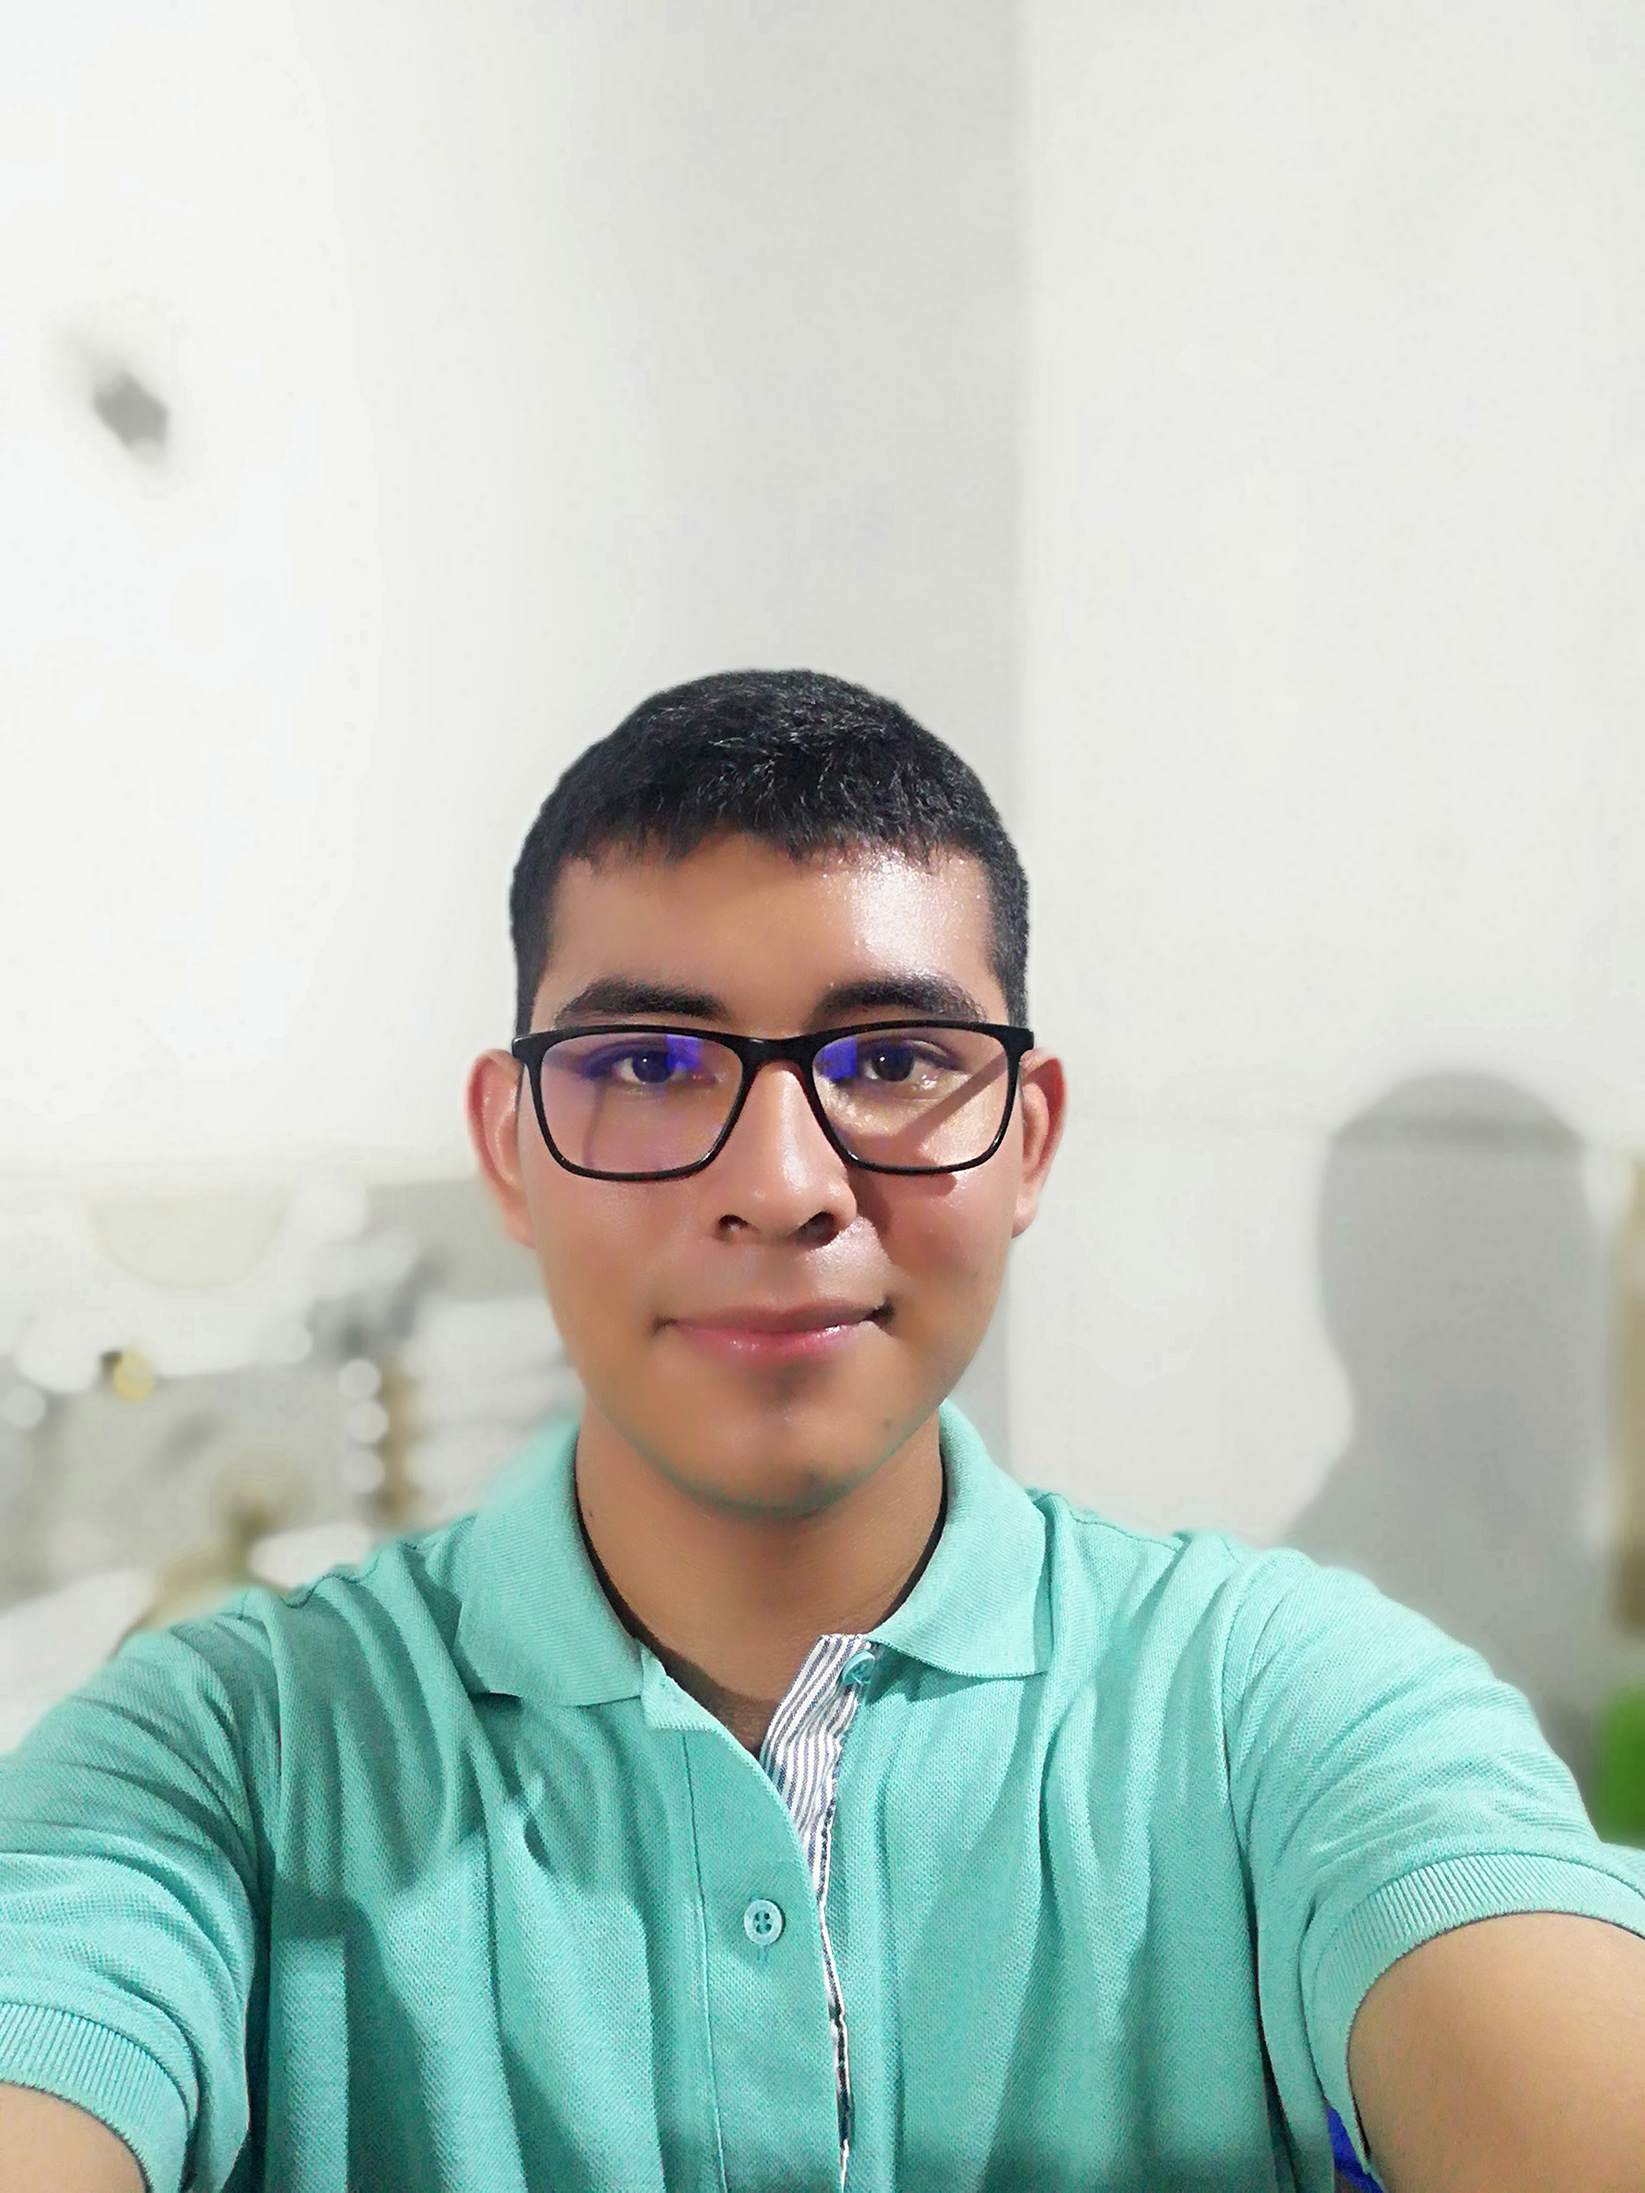
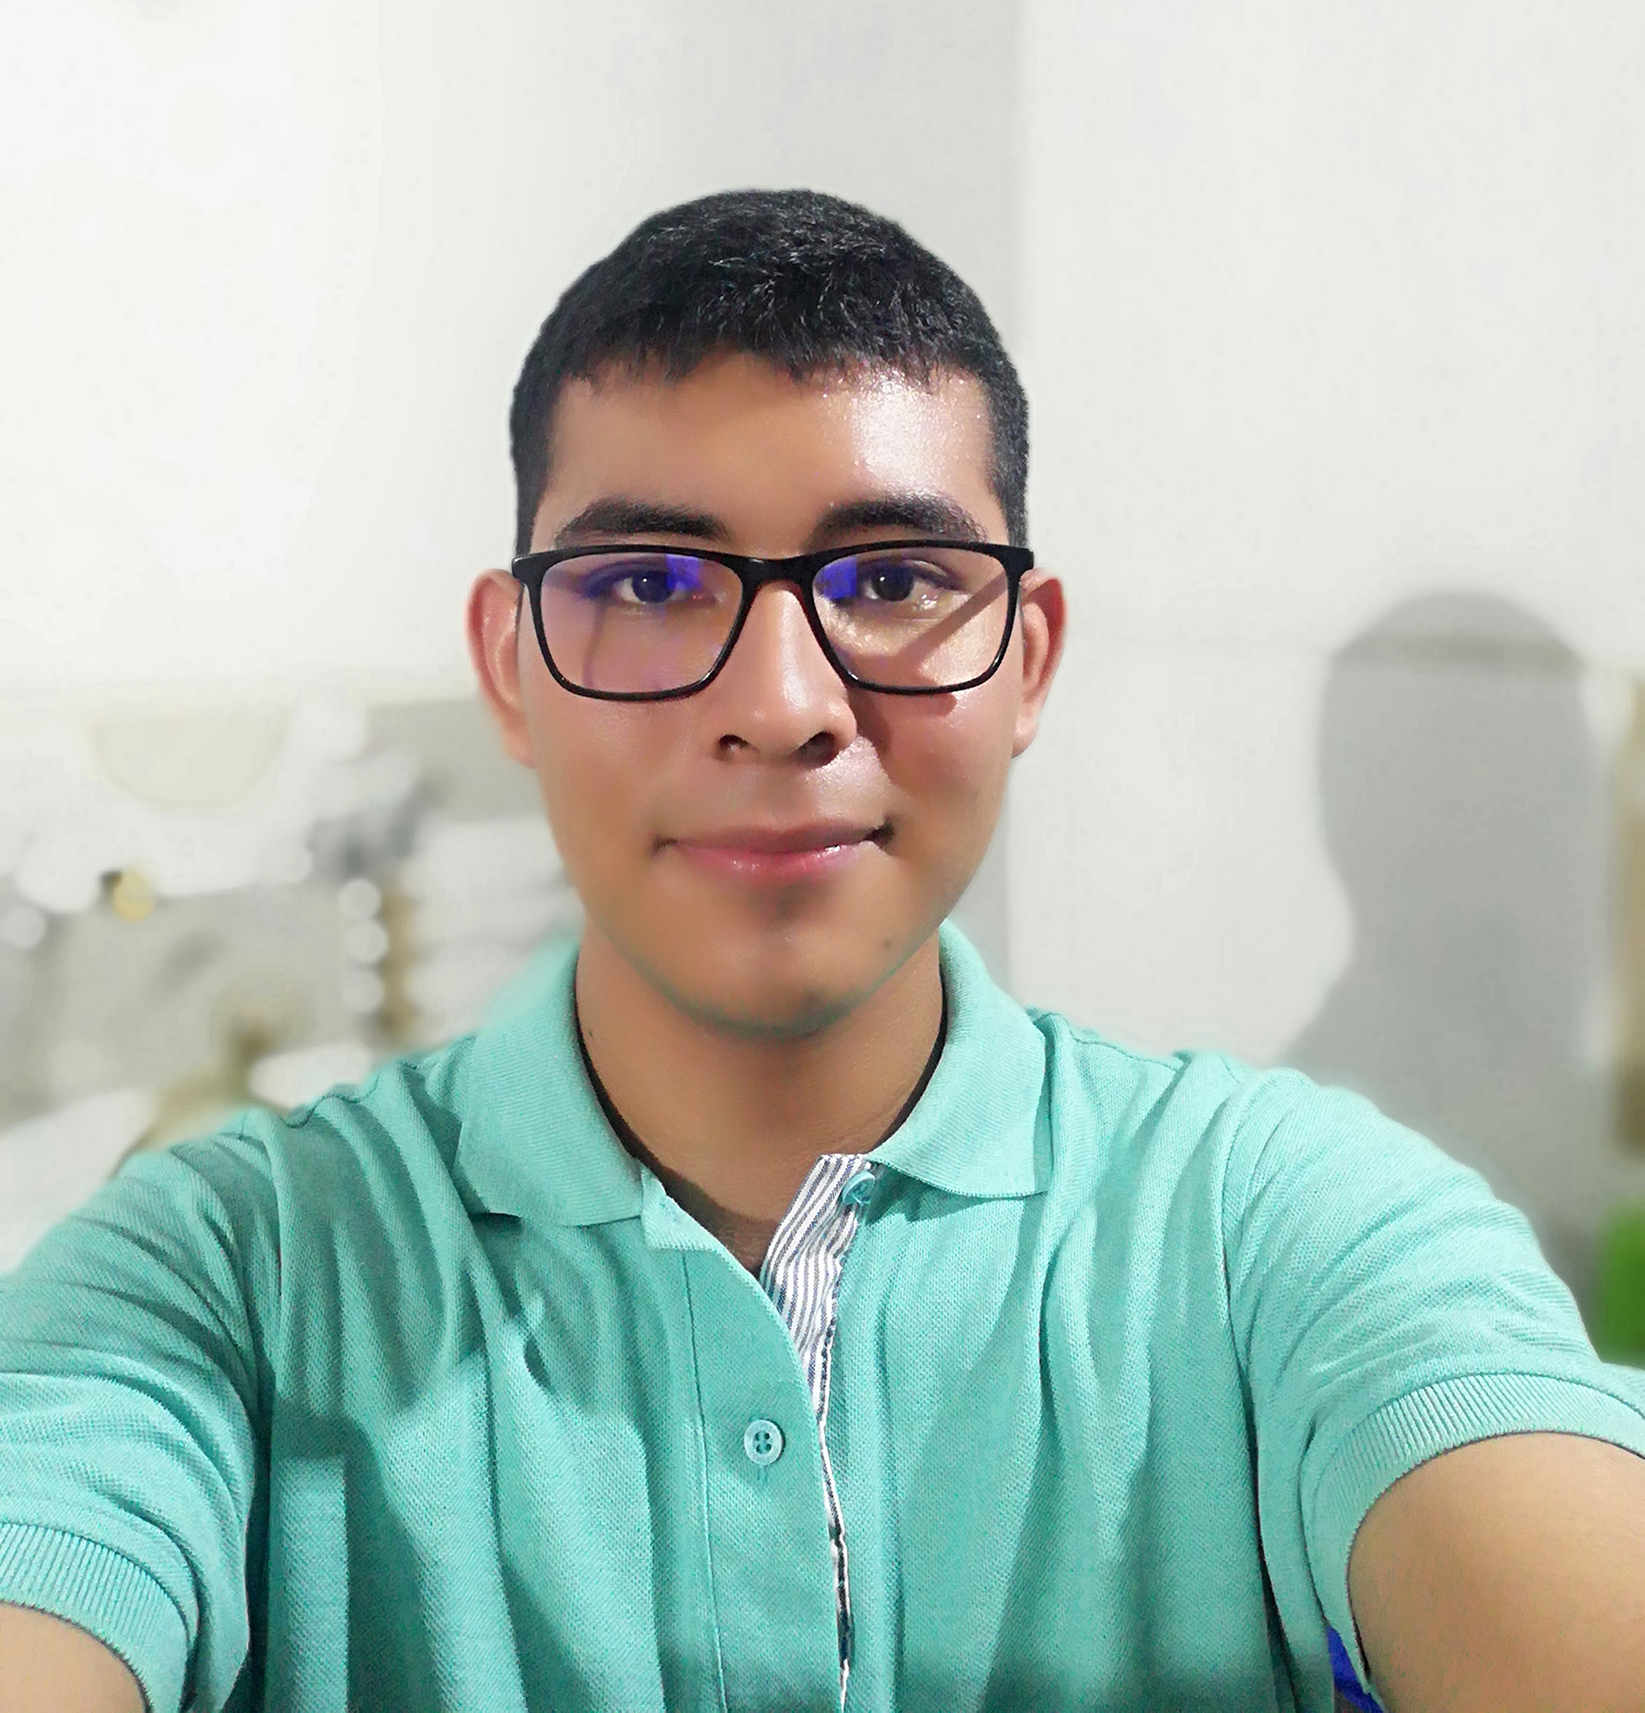
Complete page About

diff --git a/src/Components/Footer/Footer.jsx b/src/Components/Footer/Footer.jsx
@@ -4,16 +4,19 @@ import './Footer.css'
 
 const Footer = () => {
     return (
-        <div className='footerContainer'>
-            <div>
-                <h1>Seguí el proyecto en GitHub</h1>
-                <p>Proyecto creado con React y la ayuda de otras librerías para añadir animación</p>
-            </div>
-            <div className='footerIcon'>
-                <GitHubIcon className='githubIcon' fontSize='340' />
-            </div>
+        <a href="https://github.com/JuanCamilo1979/DragonBallWebpage" target="_blank" rel="noopener noreferrer">
+            <div className='footerContainer'>
 
-        </div>
+                <div>
+                    <h1>Seguí el proyecto en GitHub</h1>
+                    <p>Proyecto creado con React y la ayuda de otras librerías para añadir animación</p>
+                </div>
+                <div className='footerIcon'>
+                    <GitHubIcon className='githubIcon' fontSize='340' />
+                </div>
+
+            </div>
+        </a>
 
     )
 }

diff --git a/src/Pages/About/About.css b/src/Pages/About/About.css
@@ -33,10 +33,10 @@
 
     img {
         width: 100%;
-        height: 100%;
-        object-fit: cover;
+        
+        object-fit: fill;
         /* zoom and crop nicely */
-        object-position: top center;
+        object-position: 80% center;
         /* adjust if needed to show the head */
         filter: drop-shadow(0 0 10px rgba(0, 0, 0, 0.7));
         transition: filter 0.3s ease;

diff --git a/src/Components/Footer/Footer.css b/src/Components/Footer/Footer.css
@@ -1,3 +1,8 @@
+a{
+    text-decoration: none;
+    color: #B0B0B0;
+}
+
 .footerContainer{
     display: flex;
     flex-flow: row wrap;
